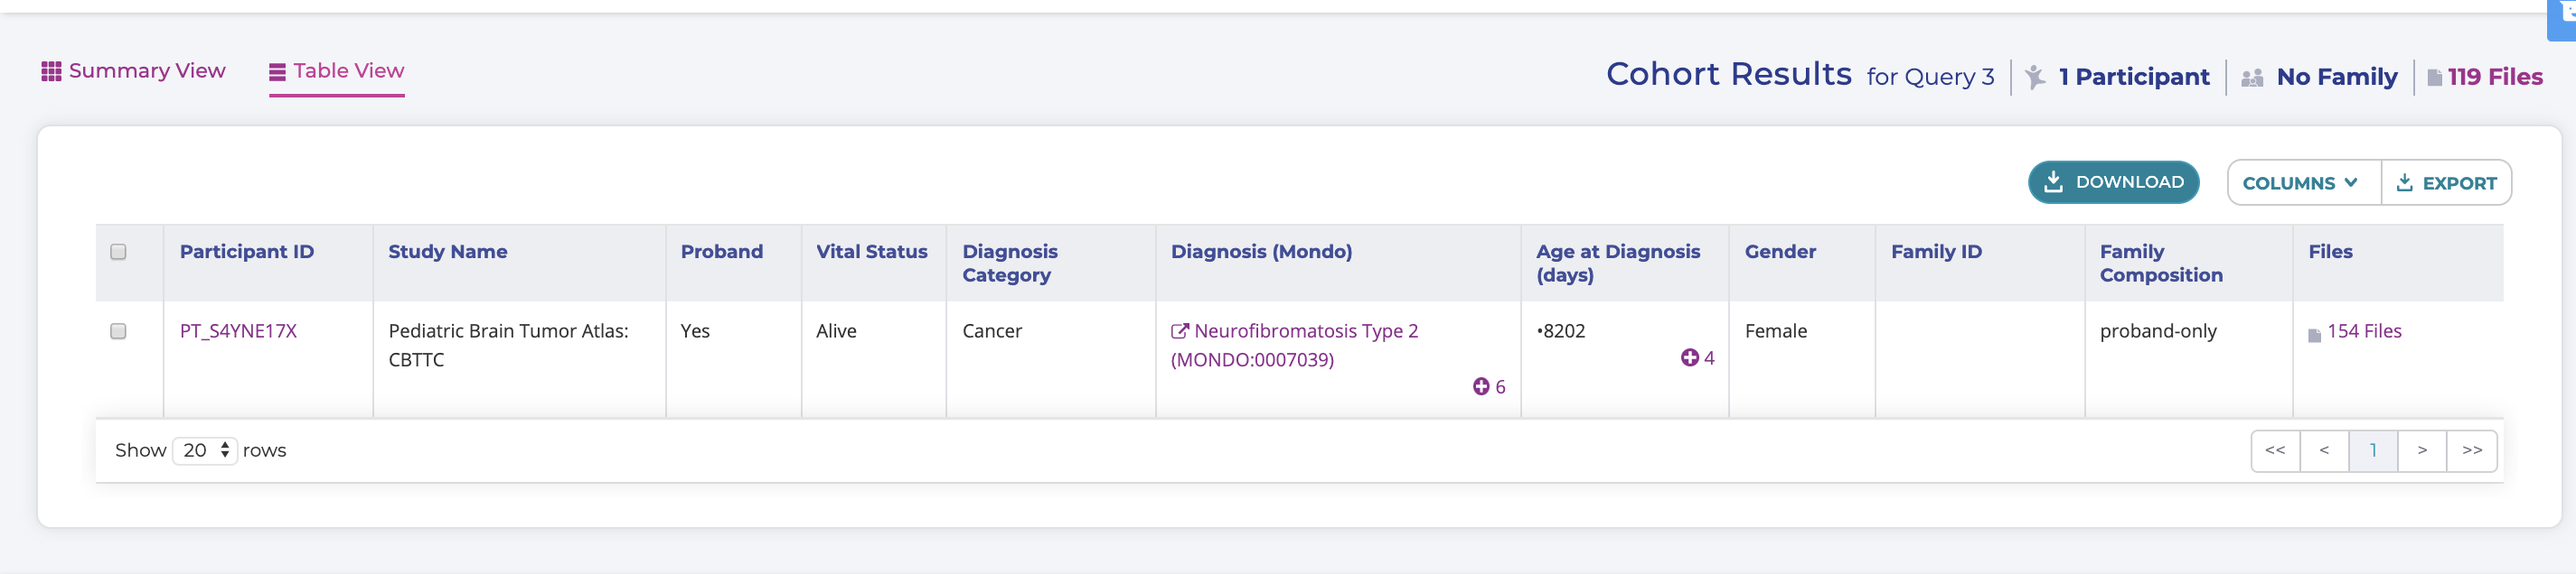
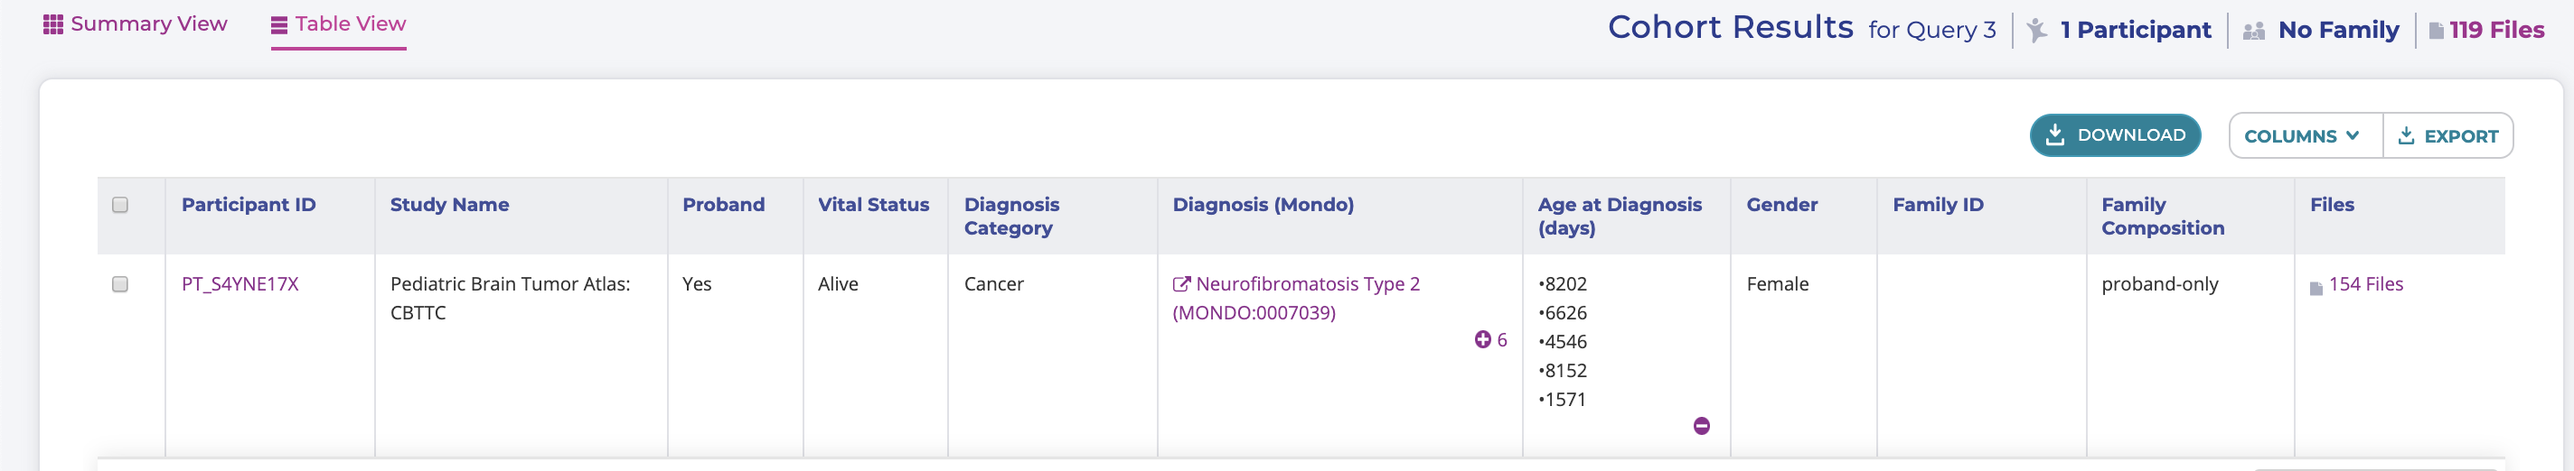
checking queries

diff --git a/docs/source/KF_11_JointQuery.rst b/docs/source/KF_11_JointQuery.rst
@@ -92,13 +92,3 @@ original queries:
    :align: center
 
    **Combined queries**
-
-.. admonition:: Challenge:
-   :class: exercise
-
-
-    * The most expedient way to do this is to click the **Quick Filters** button. Let's try that now.
-    * Choose some different options from the **Quick Filters** category and watch how your **Cohort Results** change.
-    * To further refine your **Cohort Results** select more categories along the navigation bar.
-    * Clicking on the graphics also adds filters to the data
-    * Need to cover how to remove the filter

diff --git a/docs/source/KF_12_CheckingQueries.rst b/docs/source/KF_12_CheckingQueries.rst
@@ -33,7 +33,16 @@ public metadata by clicking on the `Table View` link:
 In this new view, we can see that there is a `+4` icon in her `Age at Diagnoses`
 
 
-.. figure:: ./images/KidsFirstPortal_34.png
+.. figure:: ./images/KidsFirstPortal_37.png
    :align: center
 
    **Change to Table View**
+
+Clicking on the `+4` icon in her `Age at Diagnoses`, we see that she was diagnosed
+multiple times:
+
+
+.. figure:: ./images/KidsFirstPortal_36.png
+   :align: center
+
+   **Multiple Diagnoses**

diff --git a/docs/source/toc.rst b/docs/source/toc.rst
@@ -13,9 +13,11 @@
    KF_6_Filtering
    KF_7_Plots
    KF_8_Resetting
-   KF_9_AdvancedQUery
+   KF_9_AdvancedQuery
    KF_10_AndOr
    KF_11_JointQuery
+   KF_12_CheckingQueries
+
 
 
    LINCS_index
